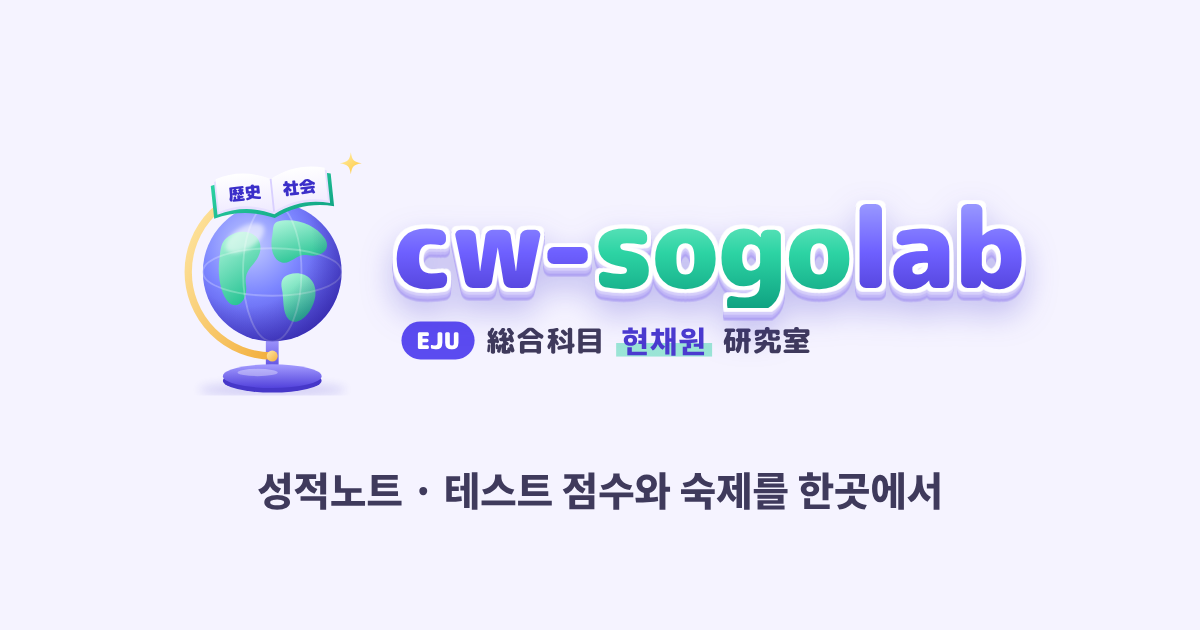
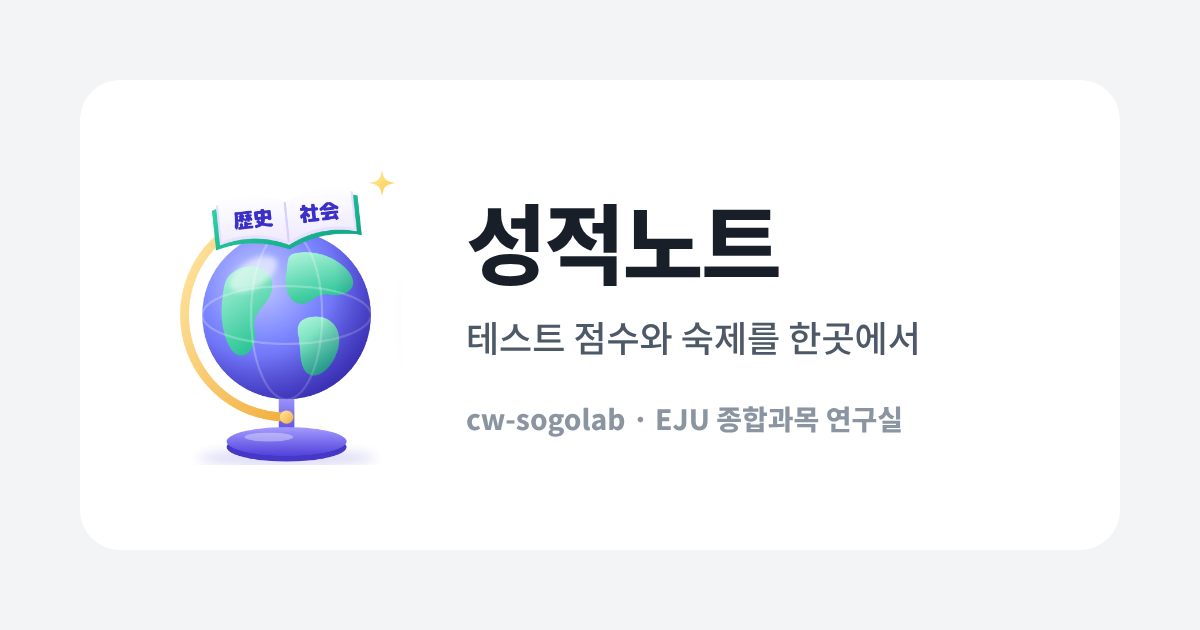
로그인 화면 로고: 3D 글자 로고 빼고 작은 지구본 엠블럼 + 사이트 글꼴 이름, 카톡 미리보기도 같은 느낌으로 (개발판)
Claude-Session: https://claude.ai/code/session_01BDnMLCHN6fTFzYFoxvHB82

diff --git a/docs/dev/admin.html b/docs/dev/admin.html
@@ -11,7 +11,7 @@
 <link rel="icon" href="assets/favicon.svg" type="image/svg+xml">
 <link rel="apple-touch-icon" href="assets/apple-touch-icon.png">
 <link rel="stylesheet" href="https://cdn.jsdelivr.net/gh/orioncactus/pretendard@v1.3.9/dist/web/variable/pretendardvariable-dynamic-subset.min.css">
-<link rel="stylesheet" href="assets/app.css?v=202610212052">
+<link rel="stylesheet" href="assets/app.css?v=202610212104">
 </head>
 <body class="locked">
 <div id="demo" class="demo" hidden>미리보기 모드예요. 비밀번호 demo로 들어가세요. 예시 데이터이고, 새로고침하면 처음 상태로 돌아가요.</div>
@@ -28,7 +28,7 @@
 <main class="wrap">
   <section id="login" class="gate" aria-labelledby="gateTitle">
     <form class="gate-form" id="loginForm" novalidate>
-      <picture class="hero"><source srcset="assets/logo-dark.webp" media="(prefers-color-scheme: dark)"><img src="assets/logo-light.webp" alt="cw-sogolab · EJU 総合科目 현채원 研究室" width="884" height="256"></picture>
+      <div class="hero"><img src="assets/logo-mark-lg.webp" alt="" width="175" height="240"><p>cw-sogolab · EJU 종합과목 연구실</p></div>
       <h1 class="title" id="gateTitle">선생님 화면</h1>
       <p class="sub">답안 입력, 시험·숙제 등록, 월말 표를 여기서 해요.</p>
       <label for="pw">관리자 비밀번호</label>
@@ -46,13 +46,13 @@
 </main>
 <footer class="foot"><img src="assets/logo-mark.webp" alt="" width="12" height="16">성적노트 · made by <b>cw-sogolab</b></footer>
 
-<script src="../assets/config.js?v=202610212052"></script>
-<script src="assets/core.js?v=202610212052"></script>
-<script src="assets/logic.js?v=202610212052"></script>
-<script src="assets/mock.js?v=202610212052"></script>
-<script src="assets/api.js?v=202610212052"></script>
-<script src="assets/monthxlsx.js?v=202610212052"></script>
-<script src="assets/plan.js?v=202610212052"></script>
-<script src="assets/admin.js?v=202610212052"></script>
+<script src="../assets/config.js?v=202610212104"></script>
+<script src="assets/core.js?v=202610212104"></script>
+<script src="assets/logic.js?v=202610212104"></script>
+<script src="assets/mock.js?v=202610212104"></script>
+<script src="assets/api.js?v=202610212104"></script>
+<script src="assets/monthxlsx.js?v=202610212104"></script>
+<script src="assets/plan.js?v=202610212104"></script>
+<script src="assets/admin.js?v=202610212104"></script>
 </body>
 </html>

diff --git a/docs/dev/index.html b/docs/dev/index.html
@@ -20,7 +20,7 @@
 <link rel="icon" href="assets/favicon.svg" type="image/svg+xml">
 <link rel="apple-touch-icon" href="assets/apple-touch-icon.png">
 <link rel="stylesheet" href="https://cdn.jsdelivr.net/gh/orioncactus/pretendard@v1.3.9/dist/web/variable/pretendardvariable-dynamic-subset.min.css">
-<link rel="stylesheet" href="assets/app.css?v=202610212052">
+<link rel="stylesheet" href="assets/app.css?v=202610212104">
 </head>
 <body>
 <div id="demo" class="demo" hidden>미리보기 모드예요. 예시 번호 KM482919로 들어가 보세요. 실제 성적이 아니고, 사진도 저장되지 않아요.</div>
@@ -31,7 +31,7 @@
 
 <main class="wrap stu">
   <section id="login" class="login">
-    <picture class="hero"><source srcset="assets/logo-dark.webp" media="(prefers-color-scheme: dark)"><img src="assets/logo-light.webp" alt="cw-sogolab · EJU 総合科目 현채원 研究室" width="884" height="256"></picture>
+    <div class="hero"><img src="assets/logo-mark-lg.webp" alt="" width="175" height="240"><p>cw-sogolab · EJU 종합과목 연구실</p></div>
     <h1 class="title">선생님께 받은<br>내 번호를 입력해 주세요</h1>
     <p class="sub">퇴실퀴즈에 쓰는 번호와 같아요</p>
     <label for="sid" class="sr">내 번호</label>
@@ -53,11 +53,11 @@
 </main>
 <footer class="foot"><img src="assets/logo-mark.webp" alt="" width="12" height="16">성적노트 · made by <b>cw-sogolab</b></footer>
 
-<script src="../assets/config.js?v=202610212052"></script>
-<script src="assets/core.js?v=202610212052"></script>
-<script src="assets/logic.js?v=202610212052"></script>
-<script src="assets/mock.js?v=202610212052"></script>
-<script src="assets/api.js?v=202610212052"></script>
-<script src="assets/student.js?v=202610212052"></script>
+<script src="../assets/config.js?v=202610212104"></script>
+<script src="assets/core.js?v=202610212104"></script>
+<script src="assets/logic.js?v=202610212104"></script>
+<script src="assets/mock.js?v=202610212104"></script>
+<script src="assets/api.js?v=202610212104"></script>
+<script src="assets/student.js?v=202610212104"></script>
 </body>
 </html>

diff --git a/docs/dev/assets/app.css b/docs/dev/assets/app.css
@@ -408,10 +408,10 @@ table.mtx td.sjcell{text-align:left}
 .sjb small,.sjb em{display:inline}
 @media (max-width:860px){.sgrid.hwfirst .col2{order:-1}}
 /* cw-sogolab 로고 (2026-10-21) */
-.hero{display:block;text-align:center;margin:0 auto 26px}
-.hero img{display:inline-block;width:min(300px,82%);height:auto}
+.hero{text-align:center;margin:0 auto 26px}
+.hero img{display:block;width:auto;height:64px;margin:0 auto}
+.hero p{margin:8px 0 0;font-size:13px;font-weight:600;color:var(--faint);letter-spacing:.01em}
 .gate .hero{margin-bottom:0}
-.gate .hero img{width:min(260px,80%)}
 .brand .by img,.foot img{width:auto;height:15px;display:inline-block;vertical-align:-3px;margin-right:4px}
 .foot img{height:14px}
 .card.blank{text-align:center}

diff --git a/CLAUDE.md b/CLAUDE.md
@@ -80,7 +80,7 @@ tests/
    - Apps Script 자체 왕복이 약 1.7~2초(아무 일 안 하는 ping 도) — 이보다 빨라지려면 서버를 옮겨야 함. 그래서 화면 쪽에서 숨김: 화면을 열면 ping 으로 미리 깨움, 학생은 「기억하기」면 지난 화면을 바로 보여 주고 뒤에서 새로 불러옴, 강사 로그인 응답에 기록을 같이 실음, 답안 입력은 바로 채점·다음 학생으로 넘어가고 저장은 뒤에서(실패하면 표에 「저장 실패」).
    - 버전: `logic.js` 의 `VERSION` = core·logic·Code.gs 해시(sync-gas.sh 가 넣음, 테스트가 확인). 모든 응답에 `ver`, 화면과 다르면 강사 화면 맨 위 빨간 경고. 강사 화면 맨 위 경고에는 달력에 없는 달·요일 못 읽는 반·시트에 없는 칸도 나옴(빠진 칸 이름은 서버가 첫 줄 끝에 자동으로 붙임).
    - 관리자 비밀번호는 사용자가 직접 문자·숫자·특수문자 섞어 바꿈(시트 메뉴 「2. 관리자 비밀번호 설정」).
-15. **브랜드** (2026-10-21): cw-sogolab. 학생 화면 머리띠 「by cw-sogolab」, 모든 화면 하단 「made by cw-sogolab」, 카톡 링크 미리보기(og 태그 + assets/og.png 1200×630), 탭 제목. 학원 제출 엑셀에는 넣지 않음.
+15. **브랜드** (2026-10-21): cw-sogolab. 로그인 화면은 작은 지구본 엠블럼 + 「cw-sogolab · EJU 종합과목 연구실」(사이트 글꼴) — 3D 글자 로고는 화면에서 따로 놀아 뺌(사용자: 밤티). 학생 화면 머리띠 「by cw-sogolab」, 모든 화면 하단 「made by cw-sogolab」, 카톡 링크 미리보기(og 태그 + assets/og.png 1200×630), 탭 제목. 학원 제출 엑셀에는 넣지 않음.
 12. **디자인** (2026-10-20 토스 스타일로 바꿈): 회색 바탕(#F2F4F6) 위 흰 카드(둥글게 20px), 파란 버튼(#3182F6) 하나, 굵은 큰 숫자, Pretendard. 빨강은 틀린 문항·미제출에만. 파비콘은 파란 막대그래프(개발판은 주황) — 퇴실퀴즈(보라 체크)와 다르게.
 
 ## 4. 수업계획서 (매달 반복)
